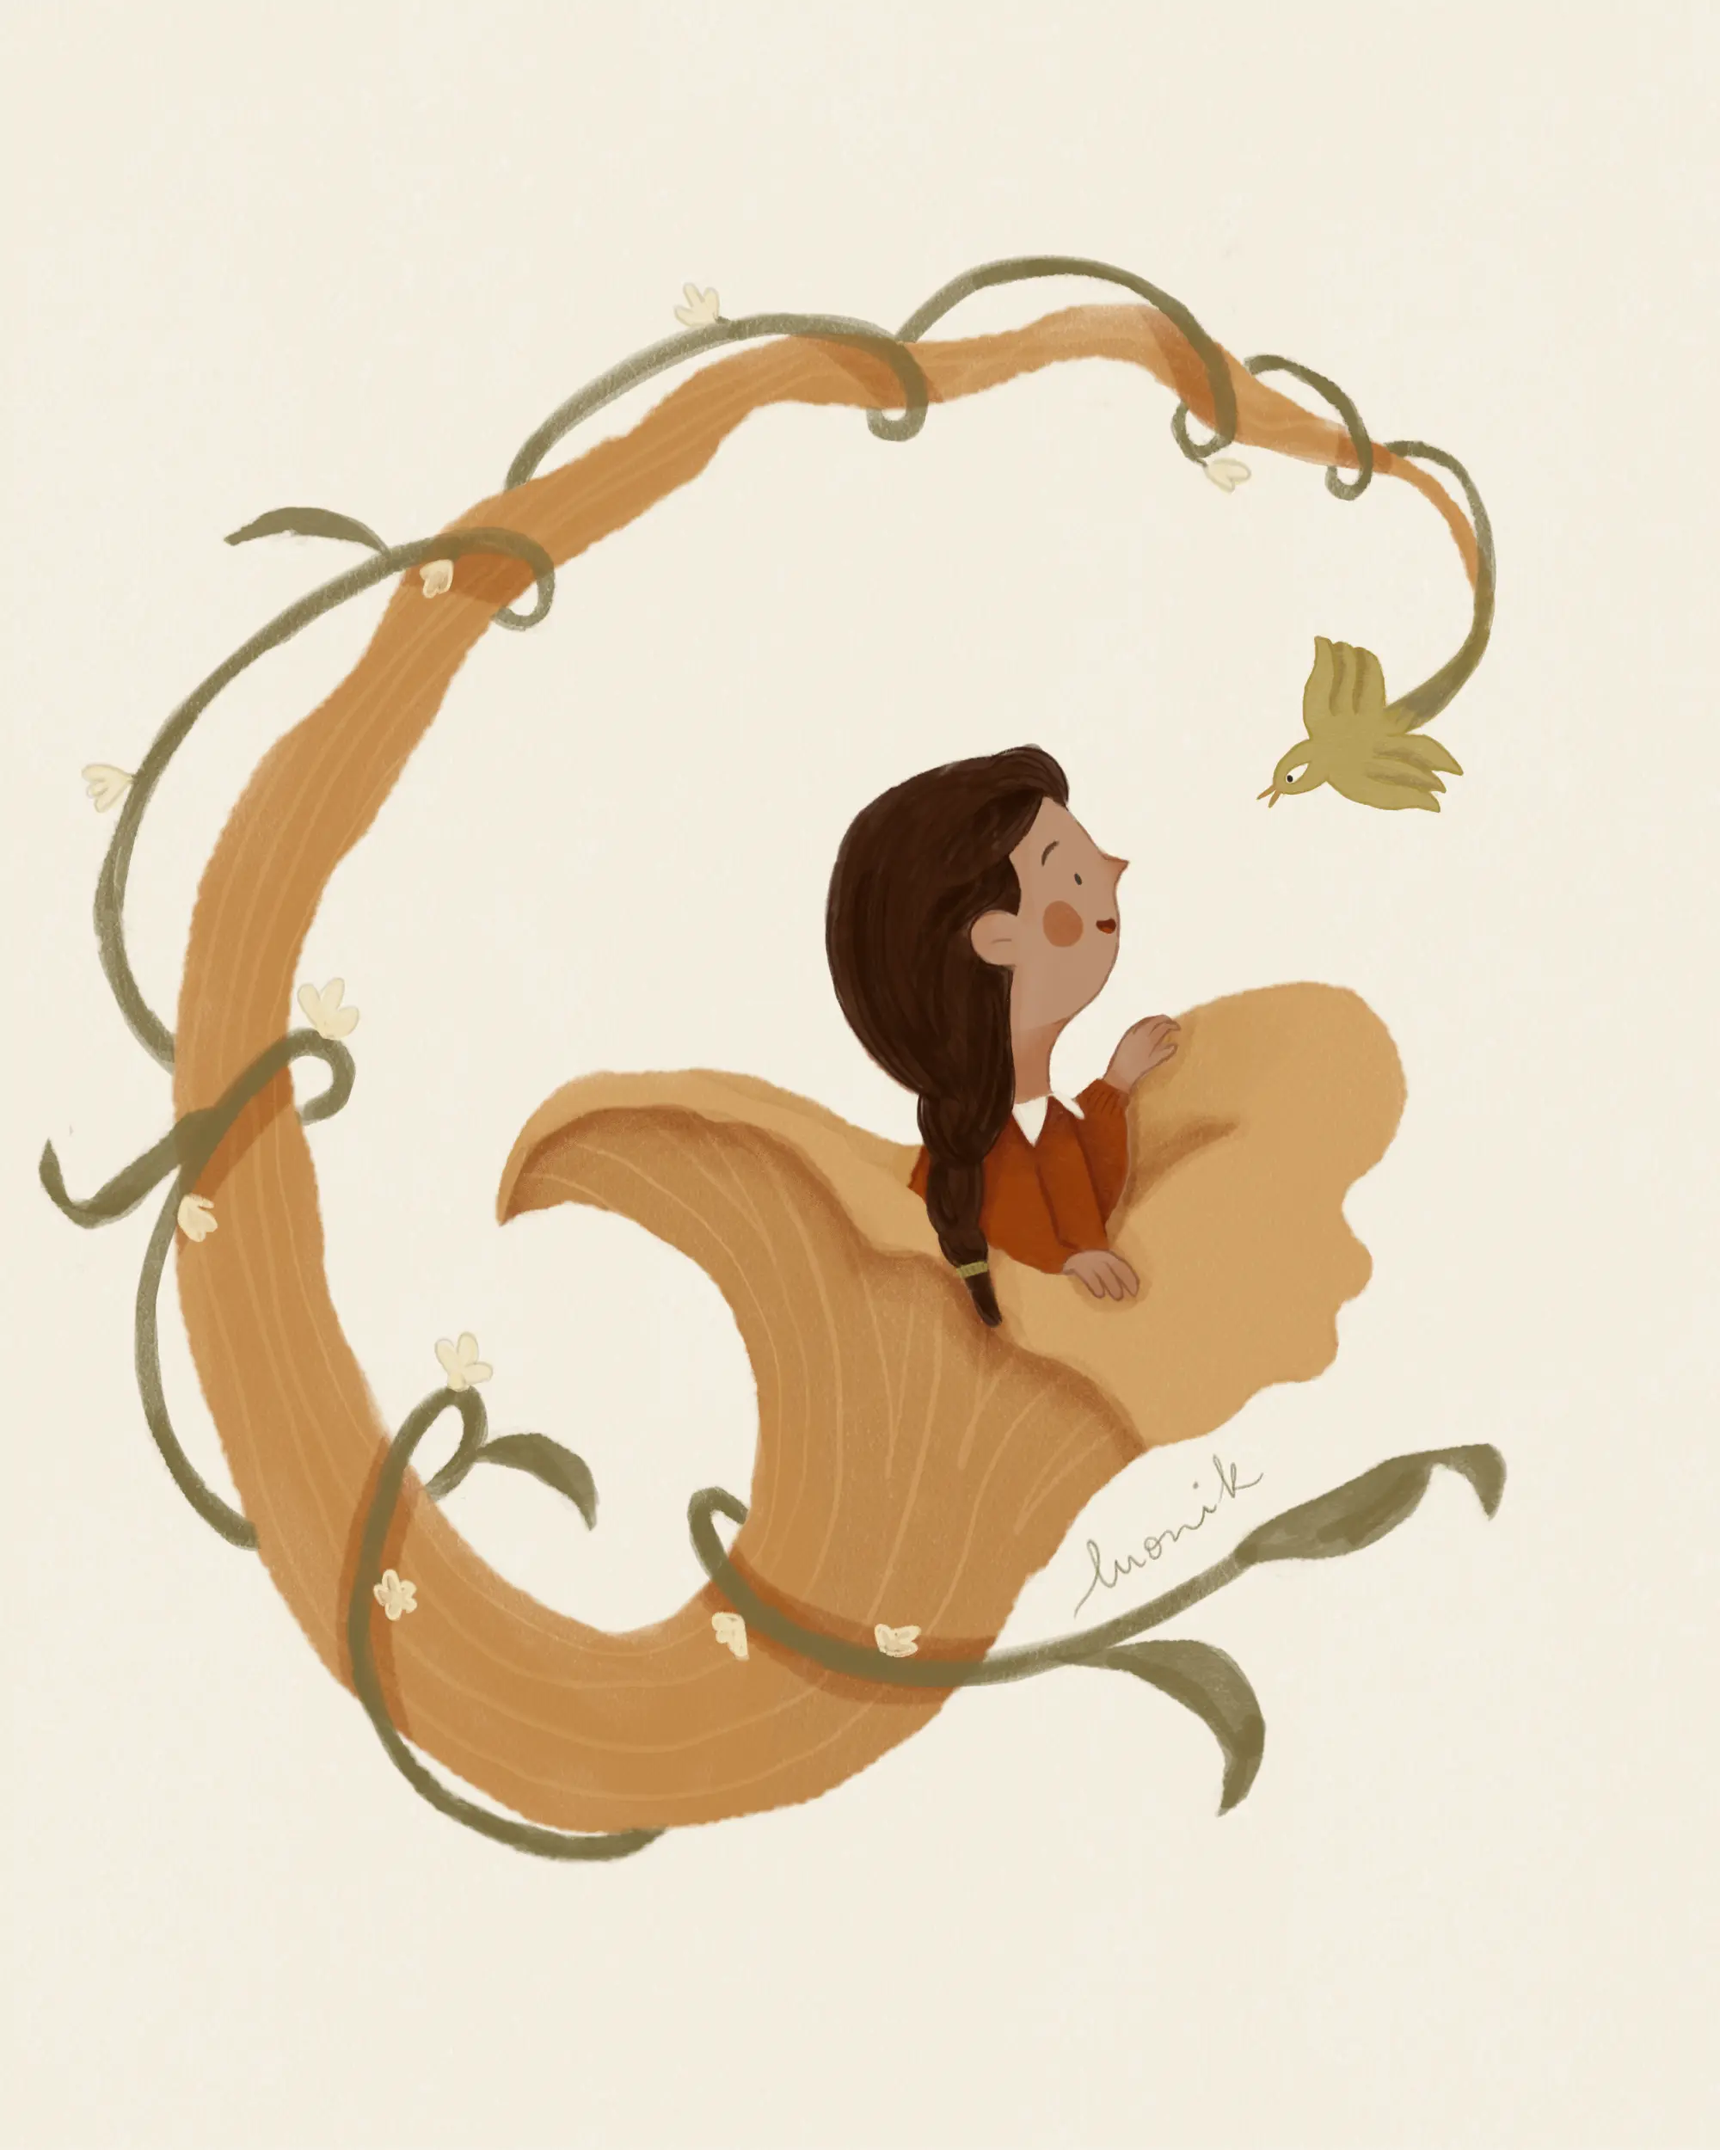
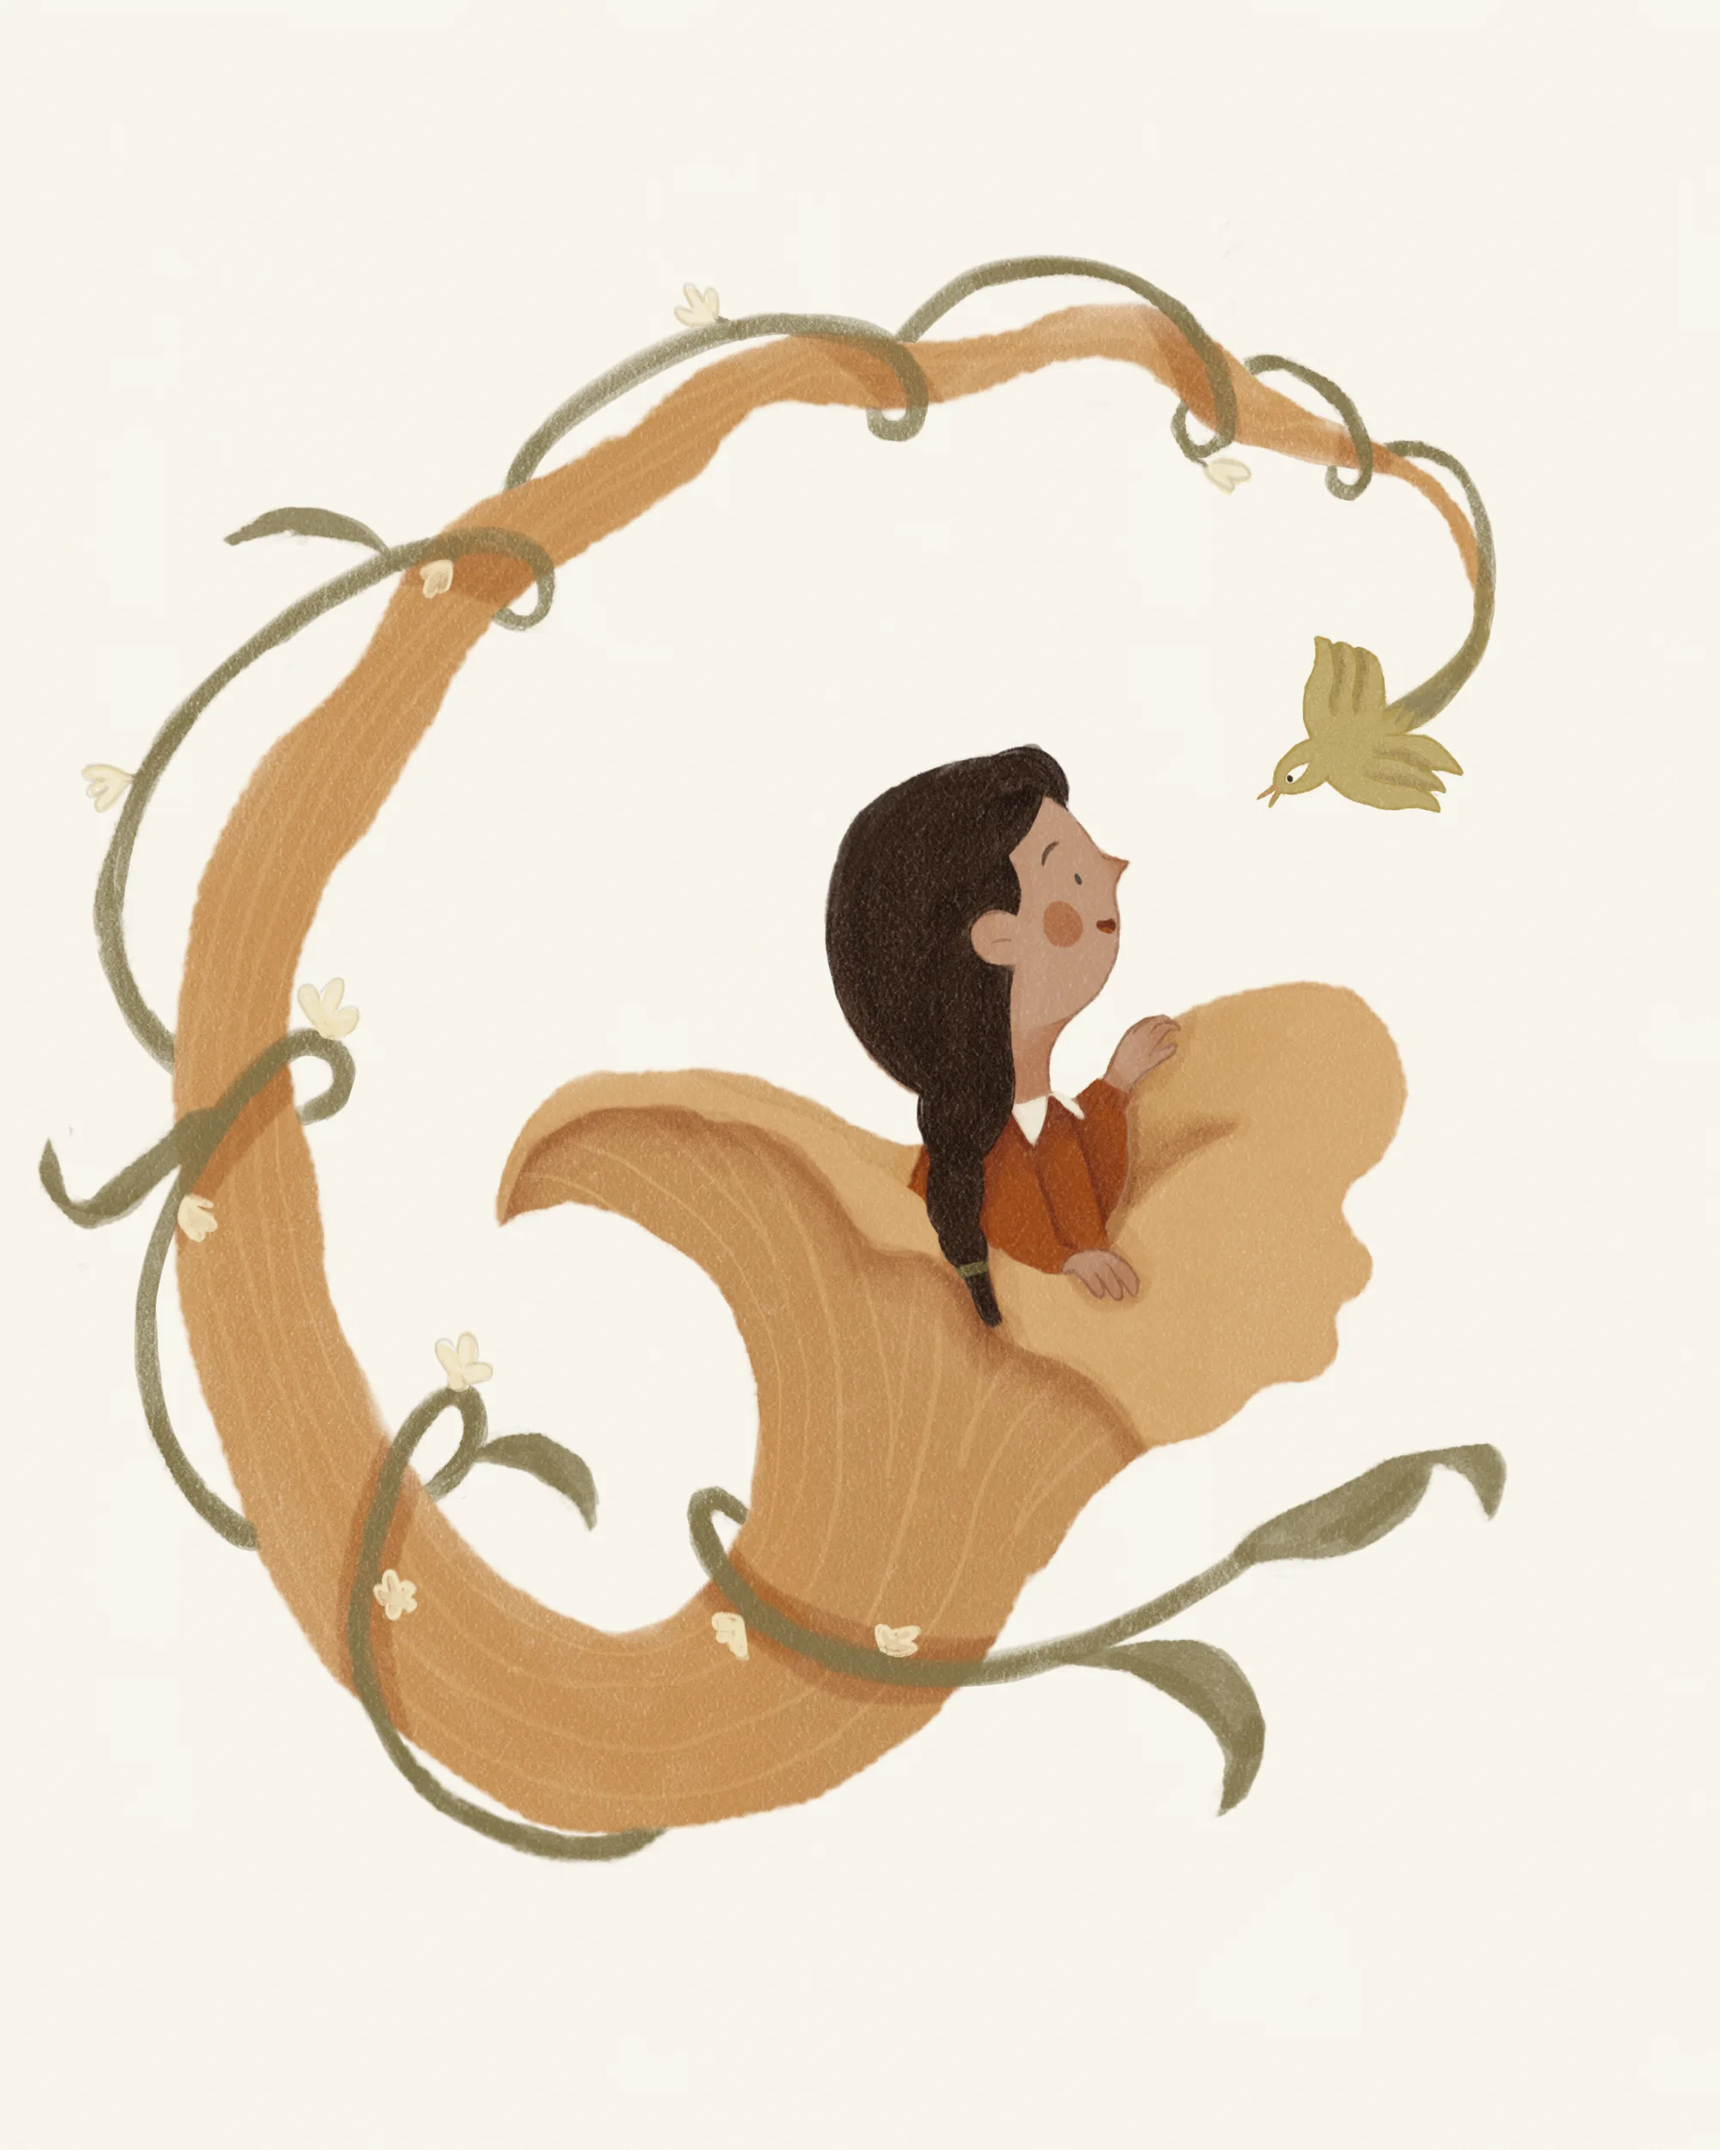
contact and self portait

Changed region(s): [[0.496, 0.3744, 0.651, 0.5928], [0.682, 0.6864, 0.744, 0.7176], [0.62, 0.7176, 0.682, 0.7488]]

diff --git a/contact.html b/contact.html
@@ -52,13 +52,11 @@
   </header>
 
 
-  <main class="contact-flexbox">
+  <main class="bio-flexbox">
 
-    <!-- <div class="bio-image-container">
-      <img class="bio-image" src="Illustrations/nik.jpg" alt="Nikté Teleguario Marín">
-    </div> -->
-
-    <img class="contact-image" src="Illustrations/self portarit.webp" style="aspect-ratio: 4x5;">
+    <div class="bio-image-container">
+      <img class="bio-image" src="Illustrations/self portarit.webp">
+    </div>
 
     <div class="bio-text-container">
       <p class="bio">
